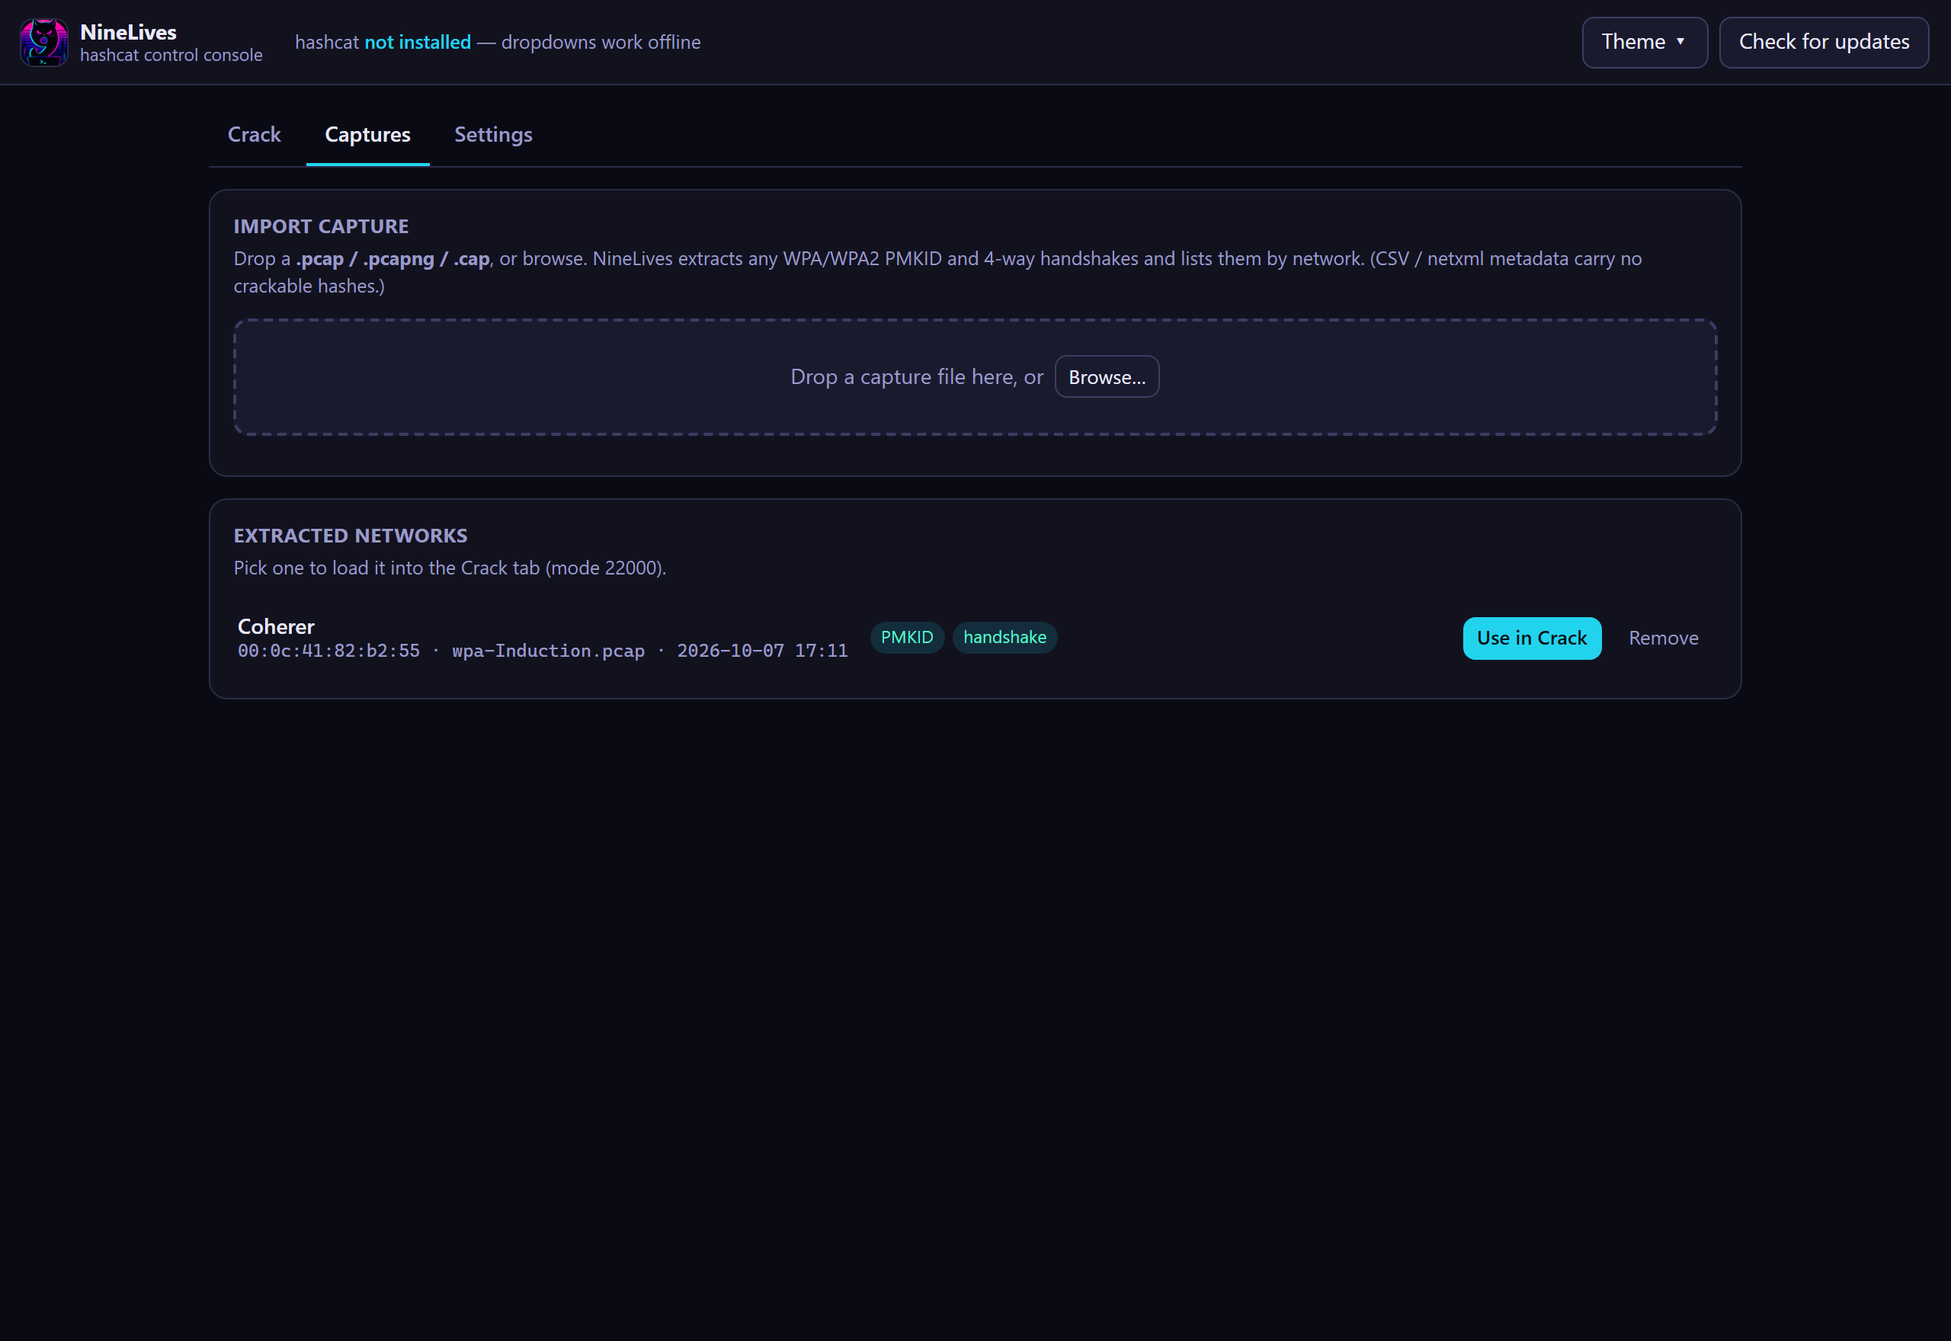
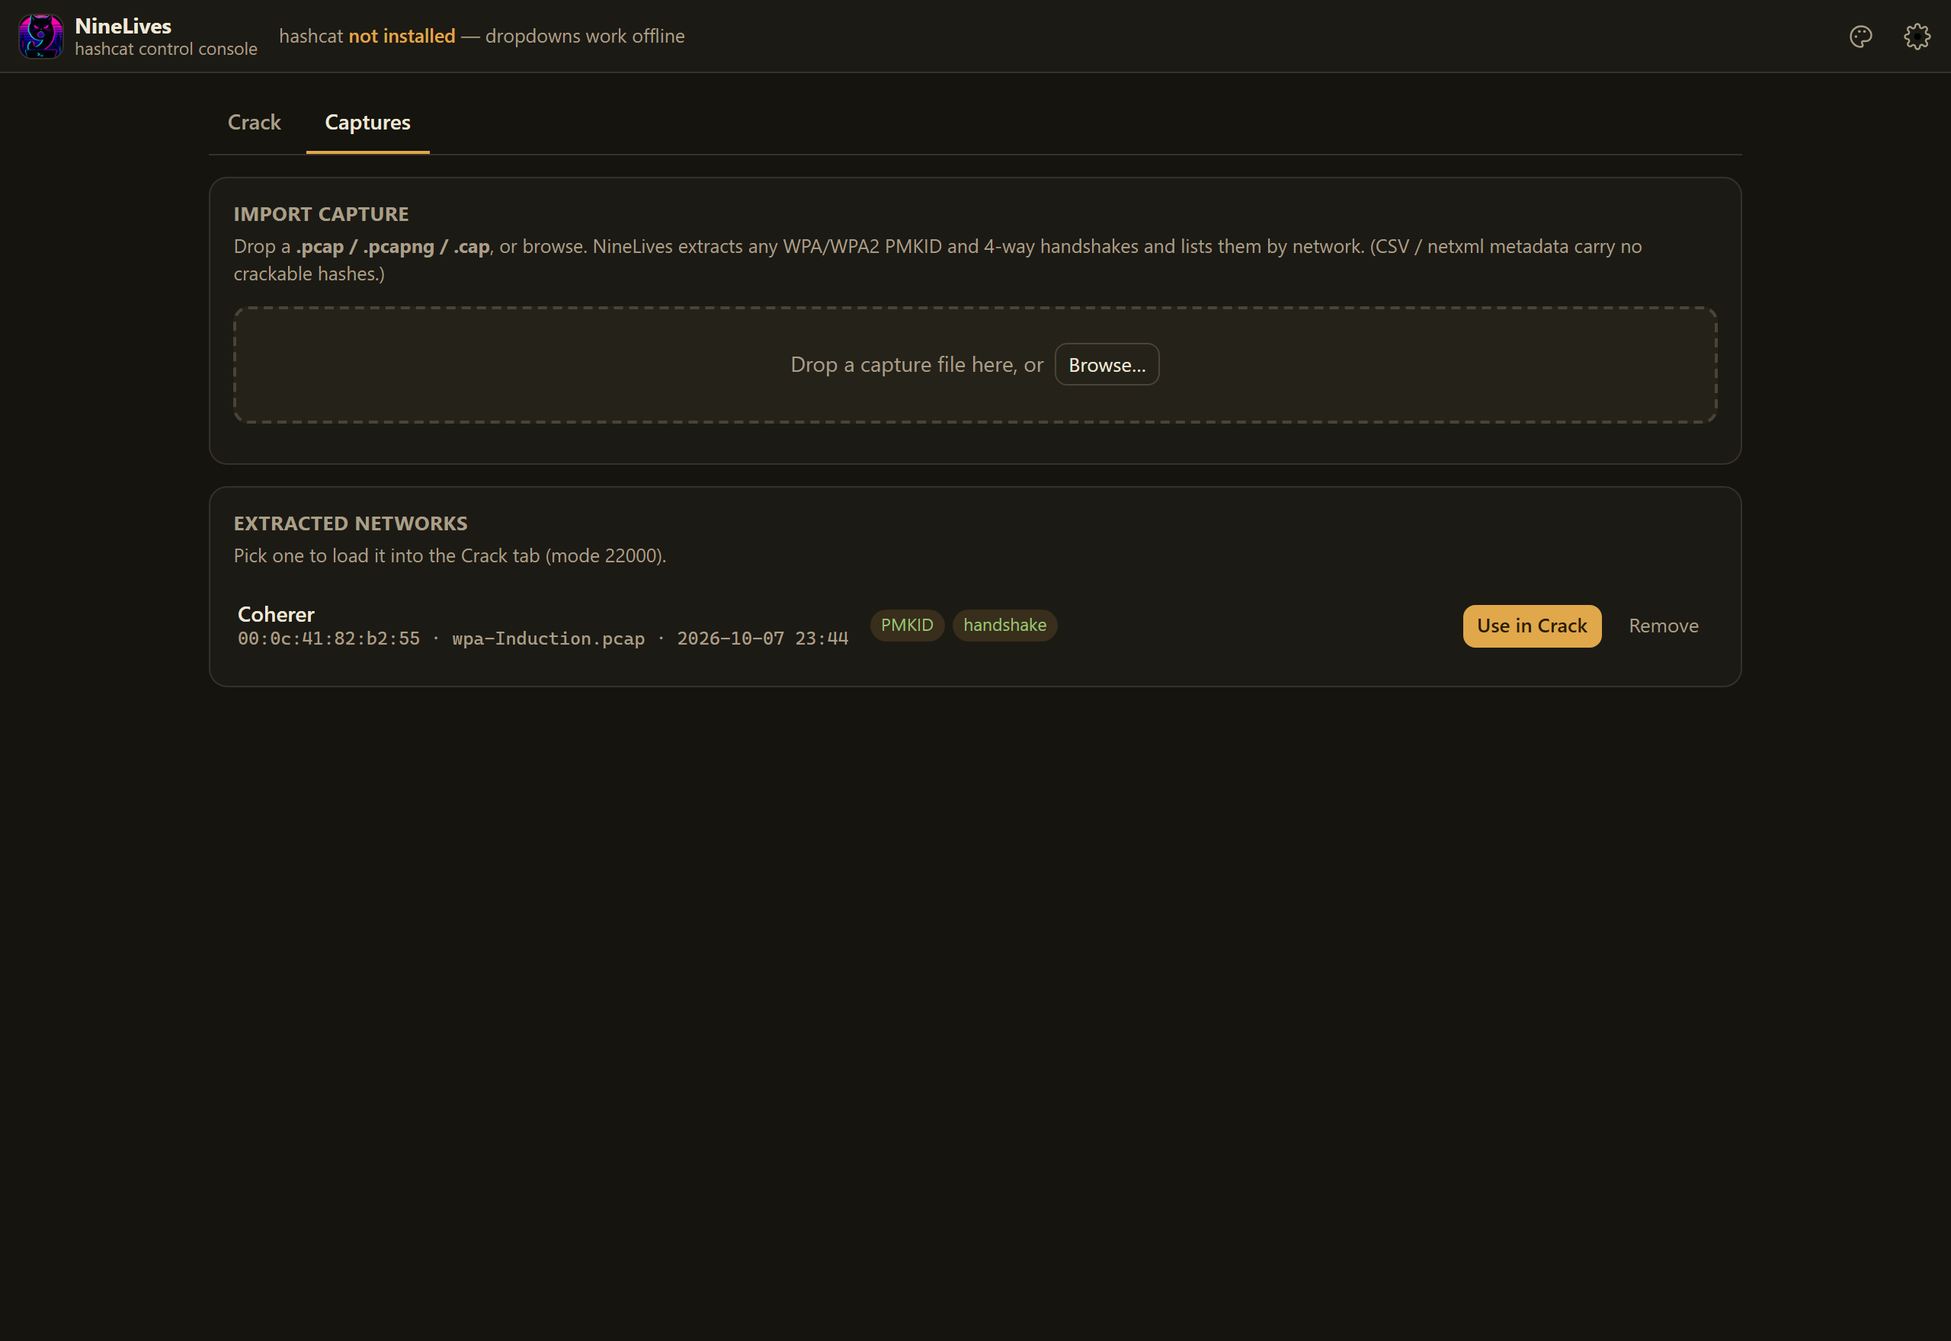
UI: frameless window + integrated controls, cog Settings, NetSeer-fluid theme
- Frameless Electron window (frame:false) with an in-app title bar: brand +
  status are the drag region; minimize / maximize / close are integrated at the
  right (win-control IPC in main.js, window.nlwin in preload; the max/restore
  icon follows the maximize state). In a plain browser (no nlwin) the controls
  hide and it degrades to a header.
- Settings moved from a tab to a cog (⚙) in the top bar that opens a dialog
  (matches NetSeer's pattern); tabs are now just Crack + Captures. Theme button
  is an icon too.
- Default theme is now terrain (NetSeer's default) for fluidity across the apps;
  all six themes remain selectable. themes.js ORDER/DEFAULT updated; index.html
  pre-boot data-theme=terrain.
- Docs: user guide says "cog" instead of "Settings tab"; docs/screenshots.py
  opens Settings via the cog and seeds the terrain theme; screenshots
  regenerated.

Verified: chrome renders (title bar, cog-opened Settings dialog, Crack/Captures
tabs) in the browser pane; dev Electron boots cleanly with the new wiring;
captures parity unaffected.

diff --git a/webui/index.html b/webui/index.html
@@ -1,5 +1,5 @@
 <!doctype html>
-<html lang="en" data-theme="synthwave">
+<html lang="en" data-theme="terrain">
 <head>
   <meta charset="utf-8">
   <meta name="viewport" content="width=device-width, initial-scale=1">
@@ -8,21 +8,32 @@
   <link rel="stylesheet" href="styles.css">
 </head>
 <body>
-  <div class="topbar">
-    <div class="brand">
-      <img class="logo" src="logo.png" alt="NineLives" width="30" height="30">
+  <!-- Frameless custom title bar: drag region (brand + status) plus app actions
+       and integrated window controls. -->
+  <div class="titlebar">
+    <div class="brand drag">
+      <img class="logo" src="logo.png" alt="NineLives" width="28" height="28">
       <div class="brand-text">
         <span class="brand-name">NineLives</span>
         <span class="brand-tag">hashcat control console</span>
       </div>
     </div>
-    <div class="status" id="status">starting…</div>
+    <div class="status drag" id="status">starting…</div>
     <div class="top-actions">
       <div class="menu-wrap">
-        <button class="btn" id="theme-btn">Theme ▾</button>
+        <button class="icon-btn" id="theme-btn" title="Theme" aria-label="Theme">
+          <svg class="icon" viewBox="0 0 24 24" aria-hidden="true"><path d="M12 3a9 9 0 1 0 0 18c.9 0 1.5-.7 1.5-1.5 0-.4-.2-.8-.4-1-.3-.3-.4-.6-.4-1 0-.8.7-1.5 1.5-1.5H16a5 5 0 0 0 5-5c0-4.4-4-8-9-8Z" fill="none" stroke="currentColor" stroke-width="1.6"/><circle cx="7.5" cy="12" r="1.2" fill="currentColor"/><circle cx="10.5" cy="7.5" r="1.2" fill="currentColor"/><circle cx="15" cy="7.5" r="1.2" fill="currentColor"/></svg>
+        </button>
         <div class="menu hidden" id="theme-menu"></div>
       </div>
-      <button class="btn" id="update-btn">Check for updates</button>
+      <button class="icon-btn" id="settings-btn" title="Settings" aria-label="Settings" aria-haspopup="dialog">
+        <svg class="icon" viewBox="0 0 24 24" aria-hidden="true"><circle cx="12" cy="12" r="3"/><path d="M19.4 15a1.7 1.7 0 0 0 .3 1.8l.1.1a2 2 0 1 1-2.8 2.8l-.1-.1a1.7 1.7 0 0 0-1.8-.3 1.7 1.7 0 0 0-1 1.5V21a2 2 0 1 1-4 0v-.1a1.7 1.7 0 0 0-1.1-1.5 1.7 1.7 0 0 0-1.8.3l-.1.1a2 2 0 1 1-2.8-2.8l.1-.1a1.7 1.7 0 0 0 .3-1.8 1.7 1.7 0 0 0-1.5-1H3a2 2 0 1 1 0-4h.1a1.7 1.7 0 0 0 1.5-1.1 1.7 1.7 0 0 0-.3-1.8l-.1-.1a2 2 0 1 1 2.8-2.8l.1.1a1.7 1.7 0 0 0 1.8.3H9a1.7 1.7 0 0 0 1-1.5V3a2 2 0 1 1 4 0v.1a1.7 1.7 0 0 0 1 1.5 1.7 1.7 0 0 0 1.8-.3l.1-.1a2 2 0 1 1 2.8 2.8l-.1.1a1.7 1.7 0 0 0-.3 1.8V9a1.7 1.7 0 0 0 1.5 1H21a2 2 0 1 1 0 4h-.1a1.7 1.7 0 0 0-1.5 1Z" fill="none" stroke="currentColor" stroke-width="1.6"/></svg>
+      </button>
+    </div>
+    <div class="window-controls" id="window-controls">
+      <button class="win-btn" id="win-min" title="Minimize" aria-label="Minimize"><svg viewBox="0 0 10 10"><path d="M1 5h8" stroke="currentColor" stroke-width="1"/></svg></button>
+      <button class="win-btn" id="win-max" title="Maximize" aria-label="Maximize"><svg viewBox="0 0 10 10"><rect x="1" y="1" width="8" height="8" fill="none" stroke="currentColor" stroke-width="1"/></svg></button>
+      <button class="win-btn danger" id="win-close" title="Close" aria-label="Close"><svg viewBox="0 0 10 10"><path d="M1 1l8 8M9 1l-8 8" stroke="currentColor" stroke-width="1"/></svg></button>
     </div>
   </div>
 
@@ -30,7 +41,6 @@
     <div class="tabs">
       <button class="tab active" data-view="crack">Crack</button>
       <button class="tab" data-view="captures">Captures</button>
-      <button class="tab" data-view="settings">Settings</button>
     </div>
 
     <!-- ===== Crack view ===== -->
@@ -103,40 +113,51 @@
       </div>
     </section>
 
-    <!-- ===== Settings view ===== -->
-    <section id="view-settings" class="hidden">
-      <div class="card">
-        <h2>Wordlists</h2>
-        <p class="sub">Installed builds ship a small starter set. Download bigger
-          lists below, or point at your own SecLists folder — all of them feed
-          the dropdowns.</p>
-        <div class="row">
-          <label class="field grow">SecLists / wordlists folder
-            <input type="text" id="seclists" placeholder="paste the full path to your SecLists folder (optional)">
-          </label>
-          <button class="btn" id="rescan-btn" style="align-self:flex-end">Use folder</button>
-        </div>
-        <p class="hint" id="wl-count"></p>
-        <div id="wl-downloads" class="wl-downloads"></div>
+  </div>
+
+  <!-- ===== Settings dialog (opened by the cog) ===== -->
+  <div id="settings-overlay" class="overlay hidden">
+    <div class="settings-panel">
+      <div class="settings-head">
+        <h2>Settings</h2>
+        <button class="icon-btn" id="settings-close" title="Close" aria-label="Close settings">
+          <svg class="icon" viewBox="0 0 24 24" aria-hidden="true"><path d="M6 6l12 12M18 6L6 18" stroke="currentColor" stroke-width="1.8" fill="none"/></svg>
+        </button>
       </div>
-      <div class="card">
-        <h2>hashcat</h2>
-        <p class="sub">Bundled with installed builds and auto-updated from hashcat's releases.</p>
-        <p class="hint" id="hc-info"></p>
-        <div class="row">
-          <button class="btn" id="update-btn2">Check / install update</button>
+      <div class="settings-body">
+        <div class="card">
+          <h2>Wordlists</h2>
+          <p class="sub">Installed builds ship a small starter set. Download bigger
+            lists below, or point at your own SecLists folder — all of them feed
+            the dropdowns.</p>
+          <div class="row">
+            <label class="field grow">SecLists / wordlists folder
+              <input type="text" id="seclists" placeholder="paste the full path to your SecLists folder (optional)">
+            </label>
+            <button class="btn" id="rescan-btn" style="align-self:flex-end">Use folder</button>
+          </div>
+          <p class="hint" id="wl-count"></p>
+          <div id="wl-downloads" class="wl-downloads"></div>
+        </div>
+        <div class="card">
+          <h2>hashcat</h2>
+          <p class="sub">Bundled with installed builds and auto-updated from hashcat's releases.</p>
+          <p class="hint" id="hc-info"></p>
+          <div class="row">
+            <button class="btn" id="update-btn2">Check / install update</button>
+          </div>
+        </div>
+        <div class="card">
+          <h2>NineLives</h2>
+          <p class="sub">Version <span id="app-version">—</span>. Updates come from
+            the project's GitHub releases.</p>
+          <p class="hint" id="app-update-msg"></p>
+          <div class="row">
+            <button class="btn primary" id="app-update-btn">Check for updates</button>
+          </div>
         </div>
       </div>
-      <div class="card">
-        <h2>NineLives</h2>
-        <p class="sub">Version <span id="app-version">—</span>. Updates come from
-          the project's GitHub releases.</p>
-        <p class="hint" id="app-update-msg"></p>
-        <div class="row">
-          <button class="btn primary" id="app-update-btn">Check for updates</button>
-        </div>
-      </div>
-    </section>
+    </div>
   </div>
 
   <!-- in-page modal (replaces blocking window.confirm, which hangs WebView2) -->

diff --git a/webui/styles.css b/webui/styles.css
@@ -74,17 +74,33 @@ html, body { margin:0; height:100%; background:var(--bg); color:var(--text);
 ::-webkit-scrollbar-track { background:transparent; }
 
 /* ---------- Top bar ---------- */
-.topbar { display:flex; align-items:center; gap:1rem; height:56px; padding:0 1rem;
-  border-bottom:1px solid var(--line); background:var(--panel); position:sticky; top:0; z-index:20; }
-.brand { display:flex; align-items:center; gap:.6rem; }
-.logo { width:30px; height:30px; border-radius:8px; object-fit:cover;
-  box-shadow:0 0 0 1px var(--line); }
-.brand-text { display:flex; flex-direction:column; line-height:1.15; }
+/* ---------- Title bar (frameless; brand + status drag, controls don't) ---------- */
+.titlebar { display:flex; align-items:center; gap:1rem; height:48px; padding:0 .35rem 0 .9rem;
+  border-bottom:1px solid var(--line); background:var(--panel); position:sticky; top:0; z-index:20;
+  user-select:none; }
+.titlebar .drag { -webkit-app-region:drag; }
+.titlebar button, .titlebar .top-actions, .titlebar .window-controls, .titlebar .menu { -webkit-app-region:no-drag; }
+.brand { display:flex; align-items:center; gap:.6rem; min-width:0; }
+.logo { width:28px; height:28px; border-radius:8px; object-fit:cover;
+  box-shadow:0 0 0 1px var(--line); flex:none; }
+.brand-text { display:flex; flex-direction:column; line-height:1.15; min-width:0; }
 .brand-name { font-weight:700; }
 .brand-tag { color:var(--muted); font-size:11.5px; }
-.status { margin-left:.5rem; color:var(--muted); font-size:12.5px; }
+.status { flex:1; color:var(--muted); font-size:12.5px; }
 .status b { color:var(--accent); font-weight:600; }
-.top-actions { margin-left:auto; display:flex; align-items:center; gap:.5rem; }
+.top-actions { display:flex; align-items:center; gap:.2rem; }
+
+/* icon buttons (theme, cog) + window controls */
+.icon-btn { display:inline-flex; align-items:center; justify-content:center; width:34px; height:34px;
+  border:0; border-radius:8px; background:transparent; color:var(--muted); cursor:pointer; }
+.icon-btn:hover { background:var(--hover); color:var(--text); }
+.icon { width:18px; height:18px; display:block; }
+.window-controls { display:flex; align-items:center; gap:2px; margin-left:.15rem; }
+.win-btn { display:inline-flex; align-items:center; justify-content:center; width:42px; height:34px;
+  border:0; border-radius:8px; background:transparent; color:var(--muted); cursor:pointer; }
+.win-btn svg { width:10px; height:10px; }
+.win-btn:hover { background:var(--hover); color:var(--text); }
+.win-btn.danger:hover { background:var(--danger); color:#fff; }
 
 /* ---------- Buttons ---------- */
 .btn { display:inline-flex; align-items:center; justify-content:center; gap:.4rem;
@@ -210,3 +226,14 @@ input:focus, select:focus { border-color:var(--accent); outline:none; }
   border-radius:12px; background:var(--panel); padding:1.2rem 1.3rem; box-shadow:var(--shadow); }
 .modal-box p { margin:0 0 1rem; white-space:pre-line; line-height:1.5; }
 .modal-actions { display:flex; justify-content:flex-end; gap:.6rem; }
+
+/* ---------- Settings dialog (cog) ---------- */
+.overlay { position:fixed; inset:0; z-index:90; display:flex; align-items:flex-start;
+  justify-content:center; padding:3rem 1rem; background:rgba(0,0,0,0.5); overflow:auto; }
+.settings-panel { width:100%; max-width:640px; border:1px solid var(--line); border-radius:14px;
+  background:var(--panel); box-shadow:var(--shadow); }
+.settings-head { display:flex; align-items:center; justify-content:space-between;
+  padding:.85rem 1.1rem; border-bottom:1px solid var(--line); }
+.settings-head h2 { margin:0; font-size:1.05rem; }
+.settings-body { padding:1rem 1.1rem 1.2rem; display:flex; flex-direction:column; gap:1rem; }
+.settings-body .card { margin:0; }

diff --git a/webui/app.js b/webui/app.js
@@ -338,13 +338,32 @@ function wireEvents() {
   });
   document.addEventListener("click", () => el("theme-menu").classList.add("hidden"));
 
-  const VIEWS = ["crack", "captures", "settings"];
+  const VIEWS = ["crack", "captures"];
   document.querySelectorAll(".tab").forEach((t) => t.addEventListener("click", () => {
     const v = t.dataset.view;
     document.querySelectorAll(".tab").forEach((x) => x.classList.toggle("active", x === t));
     VIEWS.forEach((name) => el("view-" + name).classList.toggle("hidden", name !== v));
     if (v === "captures") renderCaptures();
   }));
+
+  // --- Settings dialog (cog) ---
+  const sOverlay = el("settings-overlay");
+  const openSettings = () => { sOverlay.classList.remove("hidden"); renderWordlistDownloads(); };
+  const closeSettings = () => sOverlay.classList.add("hidden");
+  el("settings-btn").addEventListener("click", openSettings);
+  el("settings-close").addEventListener("click", closeSettings);
+  sOverlay.addEventListener("click", (e) => { if (e.target === sOverlay) closeSettings(); });
+  document.addEventListener("keydown", (e) => { if (e.key === "Escape") closeSettings(); });
+
+  // --- Window controls (frameless Electron window) ---
+  if (window.nlwin) {
+    el("win-min").addEventListener("click", () => window.nlwin.control("min"));
+    el("win-max").addEventListener("click", () => window.nlwin.control("max"));
+    el("win-close").addEventListener("click", () => window.nlwin.control("close"));
+    window.nlwin.onState((max) => document.body.classList.toggle("maximized", !!max));
+  } else {
+    const wc = el("window-controls"); if (wc) wc.style.display = "none";
+  }
 
   // --- captures import ---
   el("pick-capture").addEventListener("click", async (e) => {
@@ -411,7 +430,6 @@ function wireEvents() {
                           "Install"))) return;
     await api().install_update(info.latest);
   };
-  el("update-btn").addEventListener("click", doUpdate);
   el("update-btn2").addEventListener("click", doUpdate);
 
   const appBtn = el("app-update-btn");

diff --git a/electron/main.js b/electron/main.js
@@ -27,7 +27,8 @@ function createWindow() {
     height: 860,
     minWidth: 900,
     minHeight: 640,
-    backgroundColor: "#0a0a14",
+    backgroundColor: "#15140f",   // terrain bg — avoids a white flash before CSS
+    frame: false,                 // custom in-app title bar + window controls
     autoHideMenuBar: true,
     webPreferences: {
       preload: path.join(__dirname, "preload.js"),
@@ -37,6 +38,10 @@ function createWindow() {
   });
   win.loadFile(WEBUI_INDEX);
   if (process.env.NINELIVES_DEBUG) win.webContents.openDevTools({ mode: "detach" });
+
+  const sendState = () => { if (win && !win.isDestroyed()) win.webContents.send("win-state", win.isMaximized()); };
+  win.on("maximize", sendState);
+  win.on("unmaximize", sendState);
 
   // Automated smoke check: once the page has loaded, confirm it booted and
   // reached the backend, print the result, and quit. Used by `npm run smoke`.
@@ -113,6 +118,14 @@ app.whenReady().then(() => {
   });
   // backend asked to quit (e.g. to let the self-update installer replace files)
   api.on("quit", () => setTimeout(() => app.quit(), 1000));
+
+  // Custom window controls (frameless window).
+  ipcMain.on("win-control", (_e, action) => {
+    if (!win || win.isDestroyed()) return;
+    if (action === "min") win.minimize();
+    else if (action === "max") win.isMaximized() ? win.unmaximize() : win.maximize();
+    else if (action === "close") win.close();
+  });
 
   createWindow();
   app.on("activate", () => {

diff --git a/electron/backend/themes.js b/electron/backend/themes.js
@@ -11,7 +11,9 @@ const THEMES = {
   daylight: { name: "Daylight", note: "Light, good for printing", swatch: ["#f4f5f7", "#2563eb", "#0d9488", "#d97706"] },
   blueprint: { name: "Blueprint", note: "Engineering grid", swatch: ["#0f2a4a", "#ffffff", "#ffd479", "#8fd3ff"] },
 };
-const ORDER = ["synthwave", "cyberpunk", "terrain", "midnight", "daylight", "blueprint"];
-const DEFAULT = "synthwave";
+// terrain first (NetSeer's default, for a consistent feel across the apps),
+// then NineLives' own synthwave/cyberpunk, then the rest of NetSeer's set.
+const ORDER = ["terrain", "midnight", "daylight", "blueprint", "synthwave", "cyberpunk"];
+const DEFAULT = "terrain";
 
 module.exports = { THEMES, ORDER, DEFAULT };

diff --git a/electron/preload.js b/electron/preload.js
@@ -18,3 +18,9 @@ contextBridge.exposeInMainWorld("nlapi", {
     });
   },
 });
+
+// Window controls for the frameless window (absent in a plain browser).
+contextBridge.exposeInMainWorld("nlwin", {
+  control: (action) => ipcRenderer.send("win-control", action),
+  onState: (cb) => ipcRenderer.on("win-state", (_e, maximized) => cb(maximized)),
+});

diff --git a/docs/screenshots.py b/docs/screenshots.py
@@ -40,7 +40,7 @@ def _prep() -> None:
     import settings
     import api
     settings.set("acknowledged", True)
-    settings.set("ui_theme", "synthwave")
+    settings.set("ui_theme", "terrain")
     settings.set("captures_index", [])
     fixture = ROOT / "tests" / "fixtures" / "wpa-Induction.pcap"
     api.Api().import_capture(str(fixture))
@@ -84,9 +84,10 @@ def main() -> int:
             page.wait_for_timeout(400)
             shot("captures")
 
-            page.click('.tab[data-view="settings"]')
+            page.click("#settings-btn")   # Settings is a cog-opened dialog now
             page.wait_for_timeout(300)
             shot("settings")
+            page.click("#settings-close")
 
             page.click('.tab[data-view="crack"]')
             page.wait_for_timeout(200)

diff --git a/docs/user-guide.md b/docs/user-guide.md
@@ -25,7 +25,7 @@ Grab the latest build from the [Releases page](https://github.com/ardyn-systems/
   `webkit2gtk` present) or the `-linux-x86_64.tar.gz`.
 
 Each build **bundles hashcat and a small wordlist starter set**, so it cracks out
-of the box; grab bigger lists (rockyou etc.) from the Settings tab when you want
+of the box; grab bigger lists (rockyou etc.) from Settings (the cog) when you want
 them. Verify downloads against `SHA256SUMS-<os>.txt`.
 
 ## The Crack tab
@@ -68,7 +68,9 @@ neon, plus Terrain, Midnight, Daylight, and Blueprint. Your choice is remembered
 
 ## Settings
 
-![The Settings tab](images/settings.png)
+Open Settings from the **cog (⚙)** in the top bar — it opens as a dialog.
+
+![The Settings dialog](images/settings.png)
 
 - **Wordlists** — installed builds ship a small **starter set**. Use **Download**
   next to a list (rockyou, xato-10M, darkc0de) to fetch the bigger lists from the
